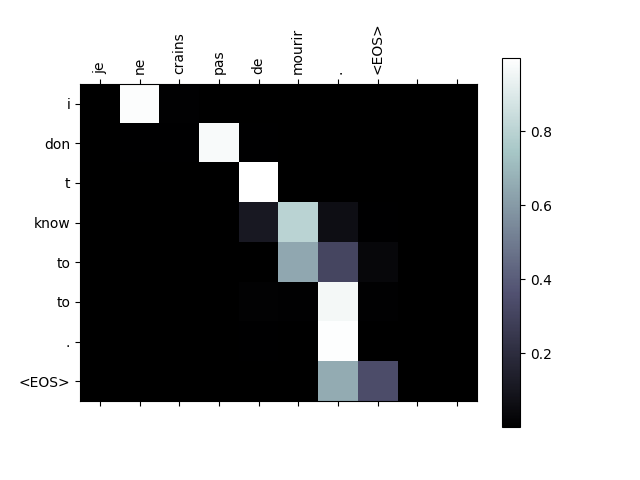
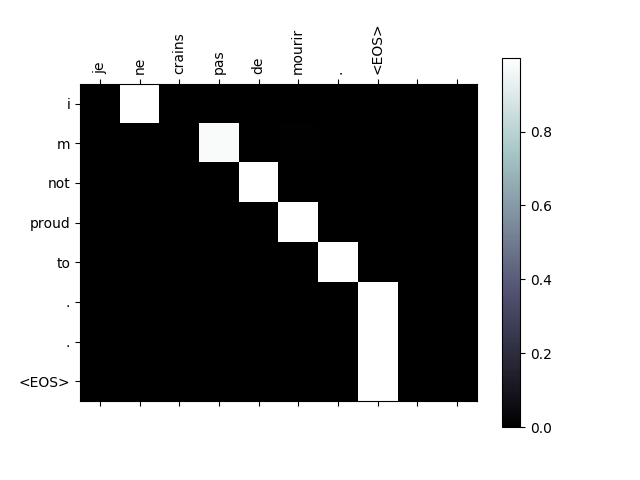
tuned slightly

diff --git a/Neural_Machine_Translation/french_to_english.py b/Neural_Machine_Translation/french_to_english.py
@@ -78,13 +78,13 @@ def read_languages(lang1,lang2,reverse=False) :
 
 # trimming dataset to sentences of max of 10 words
 # so only sentences that start with below prefixes
-eng_prefixes = (
-    "i am ", "i m ",
-    "he is", "he s ",
-    "she is", "she s",
-    "you are", "you re ",
-    "we are", "we re ",
-    "they are", "they re ")
+# eng_prefixes = (
+#     "i am ", "i m ",
+#     "he is", "he s ",
+#     "she is", "she s",
+#     "you are", "you re ",
+#     "we are", "we re ",
+#     "they are", "they re ")
 
 max_length=10
 
@@ -364,7 +364,7 @@ def evaluate_random(encoder,decoder,n=10) :
 hidden_size=128
 encoder=EncoderRNN(ip_lang.num_words,hidden_size).to(device)
 attn_decoder=Attention(hidden_size,op_lang.num_words,dropout_prob=0.1).to(device)
-train_iters(encoder,attn_decoder,10000,steps_per_stats=500)
+train_iters(encoder,attn_decoder,100000,steps_per_stats=5000)
 
 evaluate_random(encoder,attn_decoder)
 
